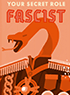
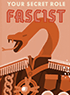
v0.8.2 - player selectable fonts, fix to account signup bug on deleted accounts, assets from v0.8.0 desaturated.

diff --git a/src/frontend-scripts/components/section-main/Changelog.jsx b/src/frontend-scripts/components/section-main/Changelog.jsx
@@ -26,7 +26,8 @@ const Changelog = props =>
 		<ul>
 			<li>The "game countdown is negative" bug should be fixed.</li>
 			<li>An issue with some players cannot remake an account after it being deleted has been addressed. Contact a moderator if you have been affected.</li>
-			<li>All new images from 0.8.0 have had their saturation knocked down by 25% - its a bit much.</li>
+			<li>All new images from 0.8.0 have had their saturation knocked down by 25%, and new colors in gamechat muted more.</li>
+			<li>Broadcasts now echo through webhook to discord.</li>
 		</ul>
 		<div className="ui header">
 			<p>Version 0.8.1 "silver" released 9-28-2017</p>

diff --git a/src/frontend-scripts/components/App.jsx b/src/frontend-scripts/components/App.jsx
@@ -85,7 +85,6 @@ export class App extends React.Component {
 
 		socket.on('gameSettings', settings => {
 			const { userInfo } = this.props;
-			console.log(settings, 'settings');
 
 			if (settings.customWidth && settings.customWidth !== '1853px') {
 				$('#game-container').css('width', settings.customWidth === 1853 ? 'inherit' : settings.customWidth);
